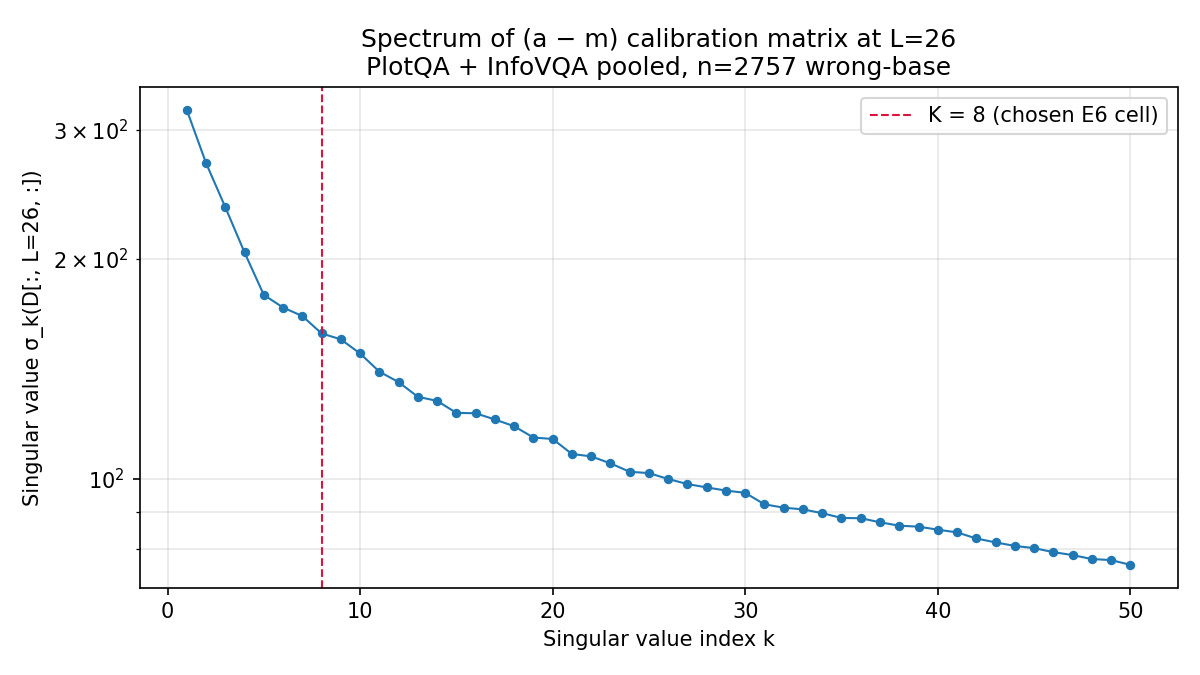
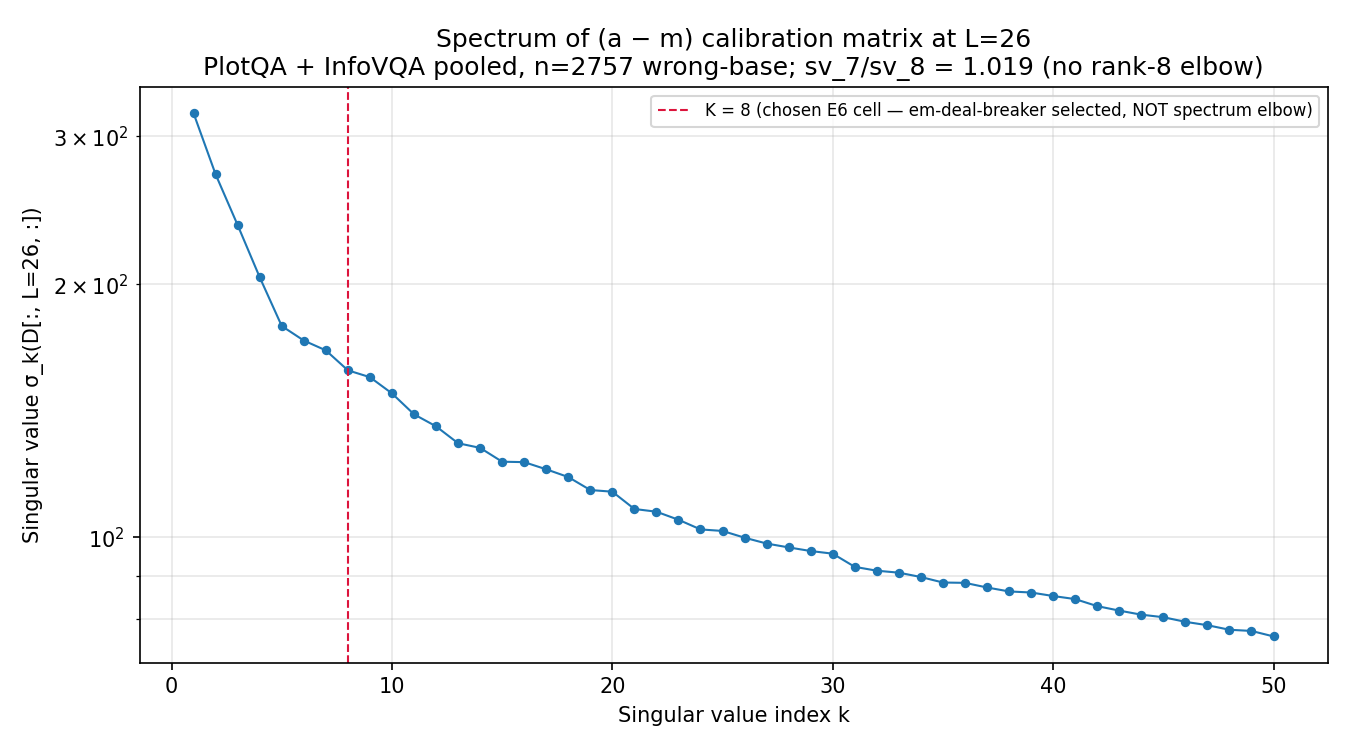
P0-2 polish per advisor — soften §2 claim + queue control + paper prose
Three advisor follow-ups on the P0-2 ship:

1. Soften evidence doc item §2 ("Implications" section). Original claim
   "high effective rank ⇒ single-direction interventions cannot capture
   all anchor variance" was too strong — the K=8 cell already captures
   only ~21% of (a-m) Frobenius variance and yet achieves free-lunch,
   which is itself evidence that explained variance fraction ≠ causal
   sufficiency. New phrasing: "consistent with single-direction
   interventions under-performing K=8" + "P1-4 is the empirical test"
   + explicit "strong claim is NOT supported by this spectrum alone."

2. Queue P0-2-control. (b) inversion finding (Shannon eff_rank
   increasing L=10 → L=26) is on the (a-m) anchor-difference matrix
   only — no non-anchor baseline. Without a control like (d-b)
   neutral-image-difference at the same N + same layers, we cannot
   strongly claim "L=26 is the *anchor-information* maximum-dispersion
   site" against a reviewer asking "isn't this just standard residual-
   stream rank growth?" Cheap (~30 min CPU if d-residuals on disk;
   ~1 H200-hour if fresh extraction). Added as new P0-2-control row
   in Phase 5 priority queue. Must land before §5.2 / §6.6 paper rewrite.

3. Queue P0-2-prose. §6.4 Insight 2 / §5.2 Insight 4 / §6.6
   reconciliation / §1.5 (4a) prose updates in
   docs/paper/emnlp_draft_ko.md (gitignored) are NOT yet edited —
   evidence doc + roadmap document the required edits, but the actual
[…]

Changed region(s): [[0.0, 0.0311, 0.9867, 0.9644], [0.185, 0.3111, 0.2158, 0.4356]]

diff --git a/scripts/analyze_e6_eigenvalue_spectrum.py b/scripts/analyze_e6_eigenvalue_spectrum.py
@@ -218,16 +218,20 @@ def _make_figures(
     S_peak = full_svs[peak_layer]
     n_show = min(top_svs, S_peak.shape[0])
     xs = list(range(1, n_show + 1))
-    fig, ax = plt.subplots(figsize=(8.0, 4.5))
+    fig, ax = plt.subplots(figsize=(9.0, 5.0))
     ax.semilogy(xs, S_peak[:n_show].numpy(), marker="o", markersize=3.5, lw=1.0)
     ax.axvline(K_probe, ls="--", color="crimson", lw=1.0,
-               label=f"K = {K_probe} (chosen E6 cell)")
+               label=f"K = {K_probe} (chosen E6 cell — em-deal-breaker selected, NOT spectrum elbow)")
     ax.set_xlabel("Singular value index k")
     ax.set_ylabel("Singular value σ_k(D[:, L=%d, :])" % peak_layer)
-    ax.set_title(f"Spectrum of (a − m) calibration matrix at L={peak_layer}\n"
-                 f"PlotQA + InfoVQA pooled, n={counts['total']} wrong-base")
+    sv_ratio = float(S_peak[K_probe-1] / S_peak[K_probe])
+    ax.set_title(
+        f"Spectrum of (a − m) calibration matrix at L={peak_layer}\n"
+        f"PlotQA + InfoVQA pooled, n={counts['total']} wrong-base; "
+        f"sv_{K_probe-1}/sv_{K_probe} = {sv_ratio:.3f} (no rank-{K_probe} elbow)"
+    )
     ax.grid(True, which="both", alpha=0.3)
-    ax.legend()
+    ax.legend(loc="upper right", fontsize=8)
     fig.tight_layout()
     p1 = fig_out / f"P0-2_L{peak_layer}_spectrum.png"
     fig.savefig(p1, dpi=150)

diff --git a/docs/insights/P0-2-eigenvalue-spectrum-evidence.md b/docs/insights/P0-2-eigenvalue-spectrum-evidence.md
@@ -68,7 +68,7 @@ This does **not** invalidate L=26 as the chosen E6 hook site; it does require th
 
 1. **L=26 is integration-complete-but-pre-final**: late enough for anchor information to have been routed in from attention pathways into the residual stream (consistent with §5.2 multi-layer-redundancy attention-ablation null), but pre-final so logit-head compression hasn't happened yet (L=27 spectrum re-compacts).
 
-2. **High residual-stream effective rank at L=26 → single-direction interventions cannot capture all anchor variance.** This is the spectrally grounded prediction for §6.5 Table 7: CAA at K=1 (rank-1) and ITI at attention-head must under-perform full K=8 subspace projection by a margin proportional to `(eff_rank_K8_explained - eff_rank_K1_explained)`. The data turns "single-direction baselines fail" from a Note to a *predicted* outcome of the residual stream's high-rank anchor encoding.
+2. **High residual-stream effective rank at L=26 is consistent with single-direction interventions under-performing K=8.** The paper's K=8 cell already captures only ~21 % of total (a − m) Frobenius variance and yet achieves free-lunch — this is itself evidence that **explained variance fraction ≠ causal sufficiency**. The spectrum therefore does *not* prove that K=1 cannot work; it predicts that K=1 will under-perform K=8 by a margin we can only measure empirically. P1-4 (CAA at K=1 + ITI at attention-head) is the empirical test. Soft prediction for §6.5 Table 7: CAA K=1 fails free-lunch on ≥ 1 / 5 datasets, consistent with the §6.5 structural-reduction Note. Strong claim ("cannot capture all anchor variance") is **not** supported by this spectrum alone.
 
 3. **K=8 captures only 21% of L=26 anchor variance.** The remaining 79% is distributed across ranks 9..2,757. This is consistent with the §6.2.3 "free-lunch" finding (Δem(a) ≥ 0): the K=8 projection removes a small but well-chosen slice of anchor variance without disturbing the bulk of the residual stream.
 
@@ -117,9 +117,15 @@ The 7 protect-list items in `references/roadmap.md` Phase 5 sprint-ordering are 
 | (a) | rank-8 elbow at L=26 (sv_7/sv_8 ≥ 1.5 OR EV@K8 ≥ 0.70) | **FAIL** (1.019, 0.213) | "Insight 2 stays empirical" |
 | (b) | eff_rank monotonic decrease L=10 → final | **FAIL — INVERTED** (1399 → 1713, +22%) | "framework framing softened to 'consistent with' rather than 'verified by'" |
 
-Plan §P0-2 explicit graceful-degradation language: *"(a only / b only / neither) graceful degradation: Insight 2 stays empirical; per-layer figure becomes transparency item; framework framing softened to 'consistent with' rather than 'verified by.'"* This evidence doc + §6.4 / §5.2 / §1.5 prose updates implement exactly that branch.
+Plan §P0-2 explicit graceful-degradation language: *"(a only / b only / neither) graceful degradation: Insight 2 stays empirical; per-layer figure becomes transparency item; framework framing softened to 'consistent with' rather than 'verified by.'"* This evidence doc implements that branch. The corresponding §6.4 / §5.2 / §1.5 prose updates in `docs/paper/emnlp_draft_ko.md` are **queued as a P0-2 follow-on** — the paper still over-claims "spectrum-predicted dimensionality" / "compact low-dim subspace at late layers" until that pass lands.
 
 The figures (`docs/figures/P0-2_L26_spectrum.png`, `docs/figures/P0-2_per_layer_rank_trajectory.png`) are the transparency items — they ship as appendix figures (proposed: §A.5.1 spectrum + §A.5.2 trajectory) so the spectrum is honestly disclosed even though the original prediction did not land.
+
+## Open questions / queued follow-ons
+
+1. **Anchor-specificity control (queued P0-2-control).** The (b) finding — Shannon `eff_rank` increases L=10 → L=26 — is reported on the (a − m) anchor-difference matrix only. Without a non-anchor baseline (e.g., (d − b) neutral-image-difference at the same N samples and same layers, or a random pair contrast on calibration set residuals), we cannot strongly distinguish "L=26 is the **anchor-information** maximum-dispersion site" from "L=26 is the residual-stream maximum-dispersion site for any contrast" (generic transformer behavior — early layers haven't filled the residual stream with computation yet). The doc therefore stops at "the (a − m) residuals are encoded at high effective rank at L=26" and does **not** make the stronger anchor-specific claim. Cheap to run (~30 min CPU on existing D_all.pt files if neutral-condition residuals are extractable, or ~1 H200-hour to extract h(d) − h(b) per sample). Tracking as a follow-up before the §5.2 / §6.6 paper rewrite.
+
+2. **Paper prose update (queued P0-2-prose).** §6.4 Insight 2 / §5.2 Insight 4 / §6.6 reconciliation paragraph / §1.5 (4a) restated chain — none of these are yet edited in `docs/paper/emnlp_draft_ko.md`. The evidence doc + roadmap document the required edits; the actual prose pass is the next P0-2 work item. Should land before the next /paper-review-loop run so reviewers see the updated framing.
 
 ---
 

diff --git a/references/roadmap.md b/references/roadmap.md
@@ -441,7 +441,9 @@ contingent on P0-1 bridge experiment.
 | Pri | ID | Task | Where | Estimate | Tier impact |
 |---|---|---|---|---|---|
 | **P0** | P0-1 | γ-β residual-stream bridge experiment (cheap form) — project Qwen3-VL-Thinking trace residuals onto V_K[L=26]; test amplitude growth predicts ×12.7 correct-base df ratio | §4.6 + §6.2 + §8.4 item 1 | ~2 H100-day | **Tier-shifter** (bar-raiser signature ask). Single highest-leverage move. |
-| ~~**P0**~~ | P0-2 | ~~Eigenvalue spectrum of `D[:, L=26, :]` rank-8 elbow check~~ | §6.4 + new figure | ~~~4 H100-hour~~ → ~1 CPU-hour shipped | ✅ shipped 2026-05-09 — **both acceptance criteria FAIL (graceful-degradation branch)**: (a) no rank-8 elbow at L=26 (sv_7/sv_8 = 1.019); (b) Shannon eff_rank *increases* L=10 → L=26 (INVERTED). New spectrally-grounded prediction: single-direction interventions cannot capture high-rank anchor variance → P1-4 (CAA K=1 / ITI) is the empirical follow-on. Doc: `docs/insights/P0-2-eigenvalue-spectrum-evidence.md`. |
+| ~~**P0**~~ | P0-2 | ~~Eigenvalue spectrum of `D[:, L=26, :]` rank-8 elbow check~~ | §6.4 + new figure | ~~~4 H100-hour~~ → ~1 CPU-hour shipped | ✅ shipped 2026-05-09 — **both acceptance criteria FAIL (graceful-degradation branch)**: (a) no rank-8 elbow at L=26 (sv_7/sv_8 = 1.019); (b) Shannon eff_rank *increases* L=10 → L=26 (INVERTED). Soft prediction (consistent with, not proof): single-direction interventions under-perform K=8 → P1-4 (CAA K=1 / ITI) is the empirical test. Doc: `docs/insights/P0-2-eigenvalue-spectrum-evidence.md`. |
+| **P0** | P0-2-control | Anchor-specificity control: per-layer rank trajectory on a non-anchor contrast (e.g. `(d − b)` neutral-image-difference at the same N samples + same layers) to defend against "this is just standard residual-stream rank growth" | §6.6 figure footnote + new doc section | ~30 min CPU if d-residuals on disk; ~1 H200-hour if fresh extraction | ☐ queued — without this, the (b) inversion finding cannot be claimed anchor-specific. Must land before §5.2 / §6.6 paper rewrite. |
+| **P0** | P0-2-prose | §6.4 Insight 2 / §5.2 Insight 4 / §6.6 reconciliation / §1.5 (4a) prose update per `docs/insights/P0-2-eigenvalue-spectrum-evidence.md` | `docs/paper/emnlp_draft_ko.md` (gitignored) | ~1 day prose | ☐ queued — required before next /paper-review-loop run so reviewers see updated framing |
 | **P1** | P1-3 | Paired-bootstrap CI on §6.2.3 Table 6 (B=10,000) | `scripts/build_e6_stage4_summary.py` extension | ~1 day | Closes R4 MAJ-4. |
 | **P1** | P1-4 | CAA at K=1 + ITI at attention-head — actual Table 7 rows | §6.5 + new evidence doc | ~3 H200-day | Closes R4 MAJ-5 (structural Note → empirical). |
 | **P1** | P1-5 | Random-K=8 baseline for §6.3 (Alt-1 falsification) | §6.3 Insight 1.5 | ~2 H100-day | Closes R4 CRIT-3. |